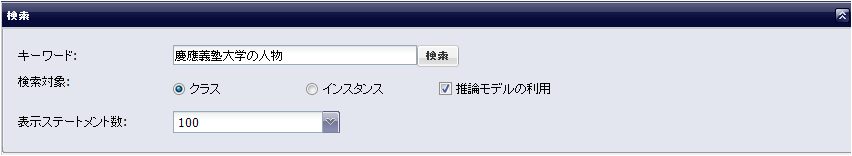
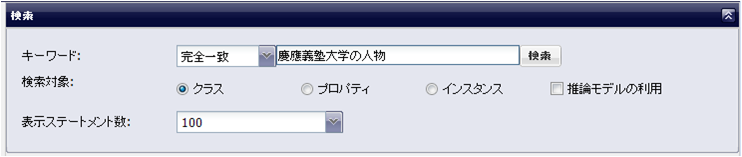
マニュアルを更新．  - システム構成図とその説明を修正  - プロパティの取得の追加  - 検索パネルの説明にプロパティ検索を追加

diff --git a/manual.html b/manual.html
@@ -26,8 +26,8 @@
 </div>
 <div class="container">
 <h1>マニュアル</h1>
-<p>以下では，日本語Wikipediaオントロジー検索システム ver.2009-11-22の使用方法について説明する．</p>
-<div style="text-align: right; font-size: 80%;">最終更新日: 2009年11月22日</div>
+<p>以下では，日本語Wikipediaオントロジー検索システム ver.2009-11-23の使用方法について説明する．</p>
+<div style="text-align: right; font-size: 80%;">最終更新日: 2009年11月30日</div>
 
 <a name="table_of_contents"></a>
 <h2>目次</h2>
@@ -37,6 +37,7 @@
 	<li><a href="#server_side_program">サーバーサイドプログラム</a>
 	<ul>
 		<li><a href="#get_class">クラスの取得</a></li>
+		<li><a href="#get_property">プロパティの取得</a></li>
 		<li><a href="#get_instance">インスタンスの取得</a></li>
 		<li><a href="#get_instance_with_multiple_type">複数のタイプ(rdf:type)を持つインスタンスの取得</a></li>
 		<li><a href="#get_class_and_instance_with_inference_model">推論モデルを用いたクラスおよびインスタンスの取得</a></li>
@@ -56,6 +57,7 @@
 	<li><a href="#search_panel">2. 検索パネル</a>
 	<ul>
 		<li><a href="#class_search">クラス検索</a></li>
+		<li><a href="#property_search">プロパティ検索</a></li>
 		<li><a href="#instance_search">インスタンス検索</a></li>
 		<li><a href="#use_inference_model">推論モデルの利用</a></li>
 		<li><a href="#number_of_statements">表示ステートメント数</a></li>
@@ -108,21 +110,21 @@ Exploreでは現在正常に動作しない．</div>
 <br />
 
 <p>
-図1に日本語Wikipediaオントロジー検索システムのシステム構成を示す．日本語Wikipediaオントロジー検索システムは，クライアントプログラム，サーバーサイドプログラム，
-日本語Wikipediaオントロジーデータベースの3つから構成される．</p>
-<p>クライアントプログラム（検索インタフェース）は，<a href="http://extjs.co.jp/"
+図1に日本語Wikipediaオントロジー検索システムのシステム構成を示す．日本語Wikipediaオントロジー検索システムは，検索インターフェース，サーバーサイドプログラム，
+日本語WikipediaオントロジーDBの3つから構成される．</p>
+<p>検索インターフェースは，<a href="http://extjs.co.jp/"
 	rel="external">ExtJS</a>ライブラリを用いて実装されている． サーバーサイドプログラムは，Java Servletと<a
 	href="http://jena.sourceforge.net/" rel="external">Jena Semantic
 Web Framework for Java</a>を用いて実装し， <a href="http://tomcat.apache.org/"
 	rel="external">Apache Tomcat</a>上で動作している． <a
-	href="http://wikipedia-ont.sourceforge.jp/" rel="external">日本語Wikipediaオントロジー</a>データベースは，JenaのAPIを用いてあらかじめOWL形式の
+	href="http://wikipedia-ont.sourceforge.jp/" rel="external">日本語Wikipediaオントロジー</a>DBは，JenaのAPIを用いてあらかじめOWL形式の
 日本語WikipediaオントロジーおよびインスタンスをMySQLに格納している．</p>
 <p>
-クライアントプログラムでは，はじめにユーザが検索キーワードを入力すると，キーワードに関連する日本語Wikipediaオントロジー内の
-クラスまたはインスタンスを識別するURIに変換する．
-サーバーサイドプログラムでは，クライアントプログラムから問い合わせのあったURIに関連するステートメントを日本語Wikipediaオントロジーデータベースに問い合わせて，
-クライアントプログラムに，RDF/XMLデータとJSONデータ（テーブル用とツリー用）を返す．クライアントプログラムは，
-サーバーサイドプログラムから返されたJSONデータを元に，テーブルやツリーの構造でWikipediaオントロジーのクラスおよびインスタンスにおける
+検索インターフェースでは，はじめにユーザが検索キーワードを入力すると，キーワードに関連する日本語Wikipediaオントロジー内の
+クラス，プロパティ，インスタンスを識別するURIに変換する．
+サーバーサイドプログラムでは，クライアントプログラムから問い合わせのあったURIに関連するステートメントを日本語WikipediaオントロジーDBに問い合わせて，
+検索インターフェースに，RDF/XMLデータとJSONデータ（テーブル用とツリー用）を返す．検索インターフェースは，
+サーバーサイドプログラムから返されたJSONデータを元に，テーブルやツリーの構造でWikipediaオントロジーのクラス，プロパティ，インスタンスにおける
 ステートメントや階層関係を表示する．また，ソースコードとしてRDF/XMLデータを表示することもできる．</p>
 
 <div class="to_table_of_contents"><a href="#table_of_contents">目次へ</a></div>
@@ -175,6 +177,52 @@ http://www.yamaguti.comp.ae.keio.ac.jp/wikipedia_ontology/class/json_tree/慶應
 	href="http://hpcs01.comp.ae.keio.ac.jp/wikipedia_ontology/class/page/%E6%85%B6%E6%87%89%E7%BE%A9%E5%A1%BE%E5%A4%A7%E5%AD%A6%E3%81%AE%E4%BA%BA%E7%89%A9.html"
 	rel="external">
 http://www.yamaguti.comp.ae.keio.ac.jp/wikipedia_ontology/class/page/慶應義塾大学の人物.html</a>
+</p>
+
+<div class="to_table_of_contents"><a href="#table_of_contents">目次へ</a></div>
+
+<a name="get_property"></a>
+<h3>プロパティの取得</h3>
+<p>以下のURIにアクセスすると，プロパティのラベルを含むRDF/XMLデータが取得できる．</p>
+
+<h4>RDF/XMLデータ</h4>
+<div style="font-weight: bold;">http://www.yamaguti.comp.ae.keio.ac.jp/wikipedia_ontology/<span
+	style="color: green;">property</span>/<span style="color: red;">data</span>/[プロパティ名].rdf</div>
+<p>例： <a
+	href="http://hpcs01.comp.ae.keio.ac.jp/wikipedia_ontology/property/data/%E3%82%B8%E3%83%A3%E3%83%B3%E3%83%AB.rdf"
+	rel="external">
+http://www.yamaguti.comp.ae.keio.ac.jp/wikipedia_ontology/property/data/ジャンル.rdf</a>
+</p>
+<br />
+<p>同様に，テーブル用とツリー用のJSONデータは，以下のURIから取得できる．</p>
+
+<h4>JSON（テーブル用）データ</h4>
+<div style="font-weight: bold;">http://www.yamaguti.comp.ae.keio.ac.jp/wikipedia_ontology/<span
+	style="color: green;">property</span>/<span style="color: red;">json_table</span>/[プロパティ名].json</div>
+<p>例： <a
+	href="http://www.yamaguti.comp.ae.keio.ac.jp/wikipedia_ontology/property/json_table/%E3%82%B8%E3%83%A3%E3%83%B3%E3%83%AB.json"
+	rel="external">
+http://www.yamaguti.comp.ae.keio.ac.jp/wikipedia_ontology/property/json_table/ジャンル.json</a>
+</p>
+
+<h4>JSON（ツリー用）データ</h4>
+<div style="font-weight: bold;">http://www.yamaguti.comp.ae.keio.ac.jp/wikipedia_ontology/<span
+	style="color: green;">property</span>/<span style="color: red;">json_tree</span>/[プロパティ名].json</div>
+<p>例： <a
+	href="http://www.yamaguti.comp.ae.keio.ac.jp/wikipedia_ontology/property/json_tree/%E3%82%B8%E3%83%A3%E3%83%B3%E3%83%AB.json"
+	rel="external">
+http://www.yamaguti.comp.ae.keio.ac.jp/wikipedia_ontology/property/json_tree/ジャンル.json</a>
+</p>
+
+<br />
+<p>人間向けのHTMLページは，以下のURIから見ることができる．</p>
+<h4>HTML</h4>
+<div style="font-weight: bold;">http://www.yamaguti.comp.ae.keio.ac.jp/wikipedia_ontology/<span
+	style="color: green;">property</span>/<span style="color: red;">page</span>/[プロパティ名].html</div>
+<p>例： <a
+	href="http://hpcs01.comp.ae.keio.ac.jp/wikipedia_ontology/property/page/%E3%82%B8%E3%83%A3%E3%83%B3%E3%83%AB.html"
+	rel="external">
+http://www.yamaguti.comp.ae.keio.ac.jp/wikipedia_ontology/property/page/ジャンル.html</a>
 </p>
 
 <div class="to_table_of_contents"><a href="#table_of_contents">目次へ</a></div>
@@ -543,6 +591,13 @@ icon-instanceクラスを用意している．スタイルシートは以下のU
 <br />
 <p>「キーワード」テキストフィールドに複数のクラス名をスペース区切りで入力し，検索ボタンを押すと，
 複数のタイプ(rdf:type)を持つインスタンス（複数のクラスに属するインスタンス）一覧を取得することができる．</p>
+
+<a name="property_search"></a>
+<h3>プロパティ検索</h3>
+<p>「キーワード」テキストフィールドにプロパティ名（日本語Wikipediaオントロジー内のクラスが持つラベル（rdfs:labelプロパティの値））を入力し，
+検索対象としてプロパティを選択し，検索ボタンを押すと「ステートメント」タブと「クラス階層とインスタンス」パネルに
+結果が表示される．検索結果として対象プロパティに関連するステートメントを取得する．</p>
+<br />
 
 <a name="instance_search"></a>
 <h3>インスタンス検索</h3>
